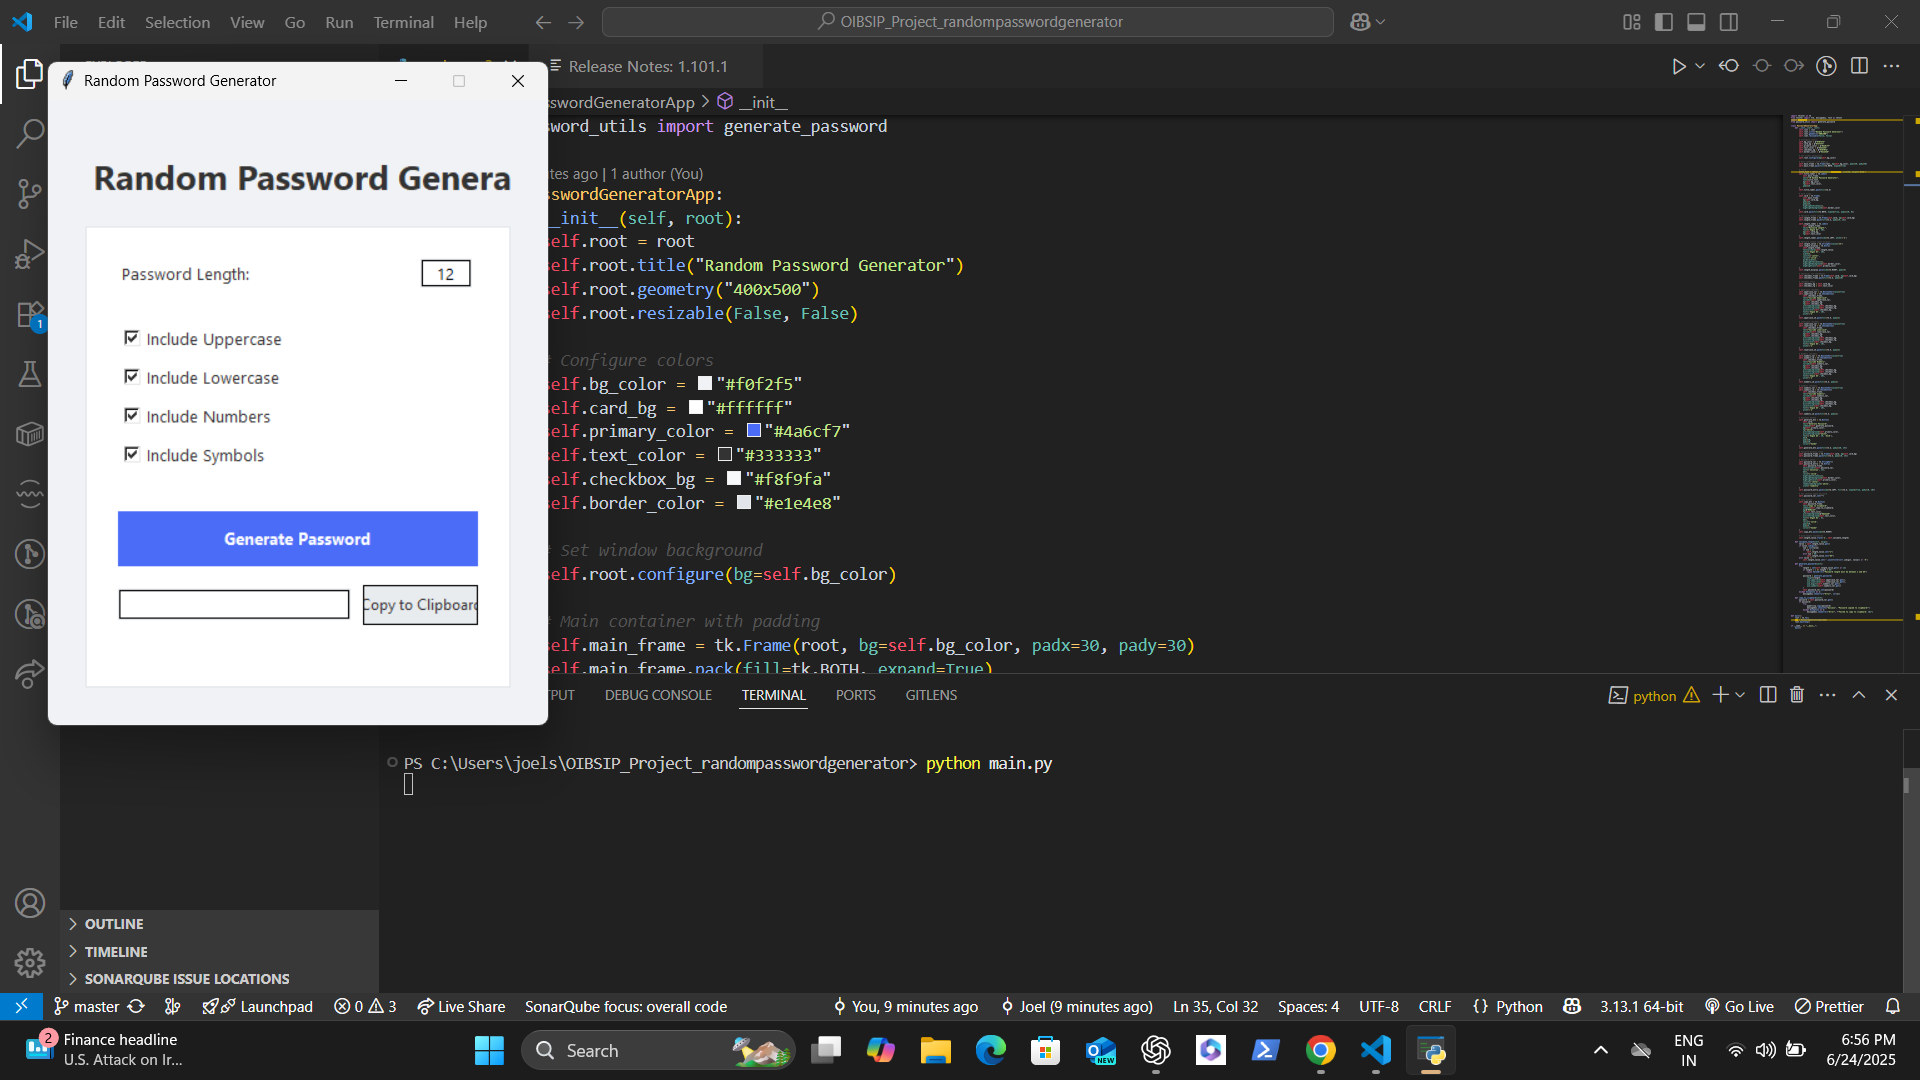
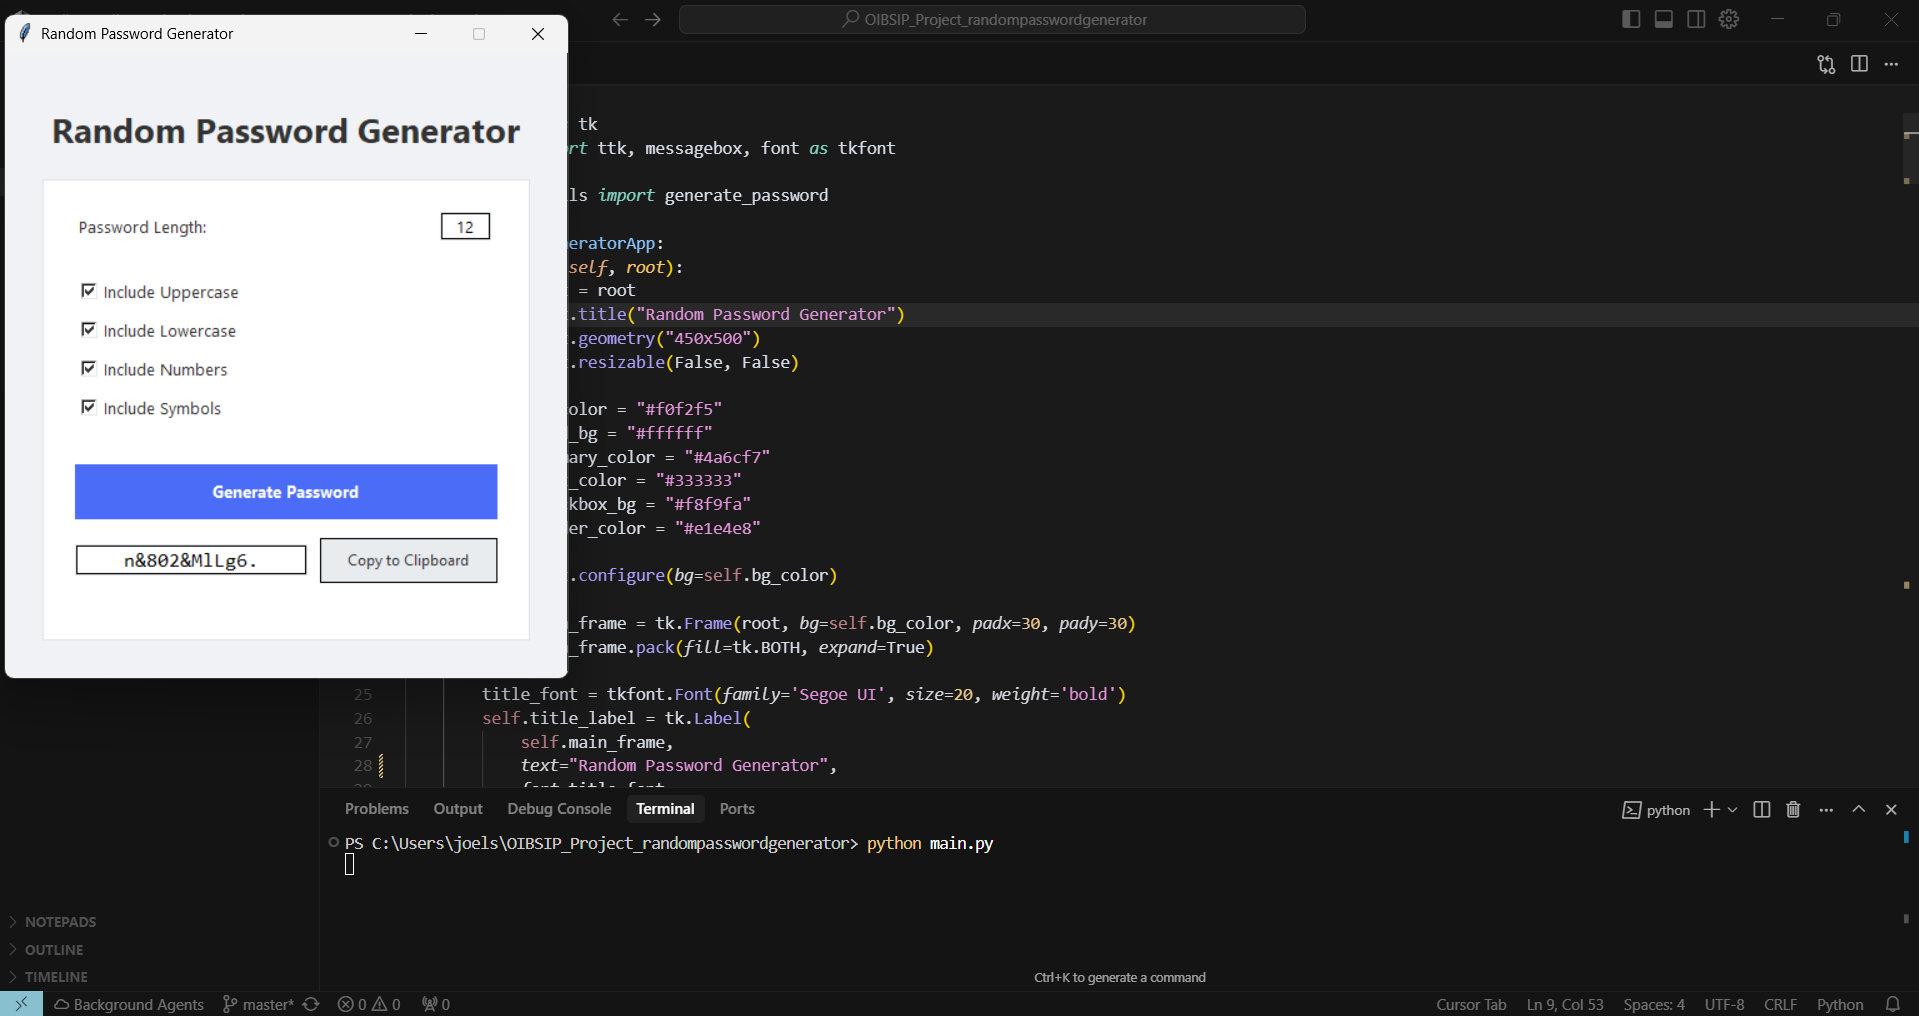
readme.md updated

diff --git a/main.py b/main.py
@@ -7,7 +7,7 @@ class PasswordGeneratorApp:
     def __init__(self, root):
         self.root = root
         self.root.title("Random Password Generator")
-        self.root.geometry("400x500")
+        self.root.geometry("450x500")
         self.root.resizable(False, False)
         
         self.bg_color = "#f0f2f5"
@@ -25,7 +25,7 @@ class PasswordGeneratorApp:
         title_font = tkfont.Font(family='Segoe UI', size=20, weight='bold')
         self.title_label = tk.Label(
             self.main_frame,
-            text=" Random Password Generator",
+            text="Random Password Generator",
             font=title_font,
             bg=self.bg_color,
             fg=self.text_color,
@@ -184,8 +184,9 @@ class PasswordGeneratorApp:
             font=('Segoe UI', 9),
             bd=1,
             relief='solid',
-            padx=10,
-            pady=5,
+            padx=16,
+            pady=7,
+            width=18,
             cursor="hand2"
         )
         self.copy_btn.pack(side=tk.RIGHT)
